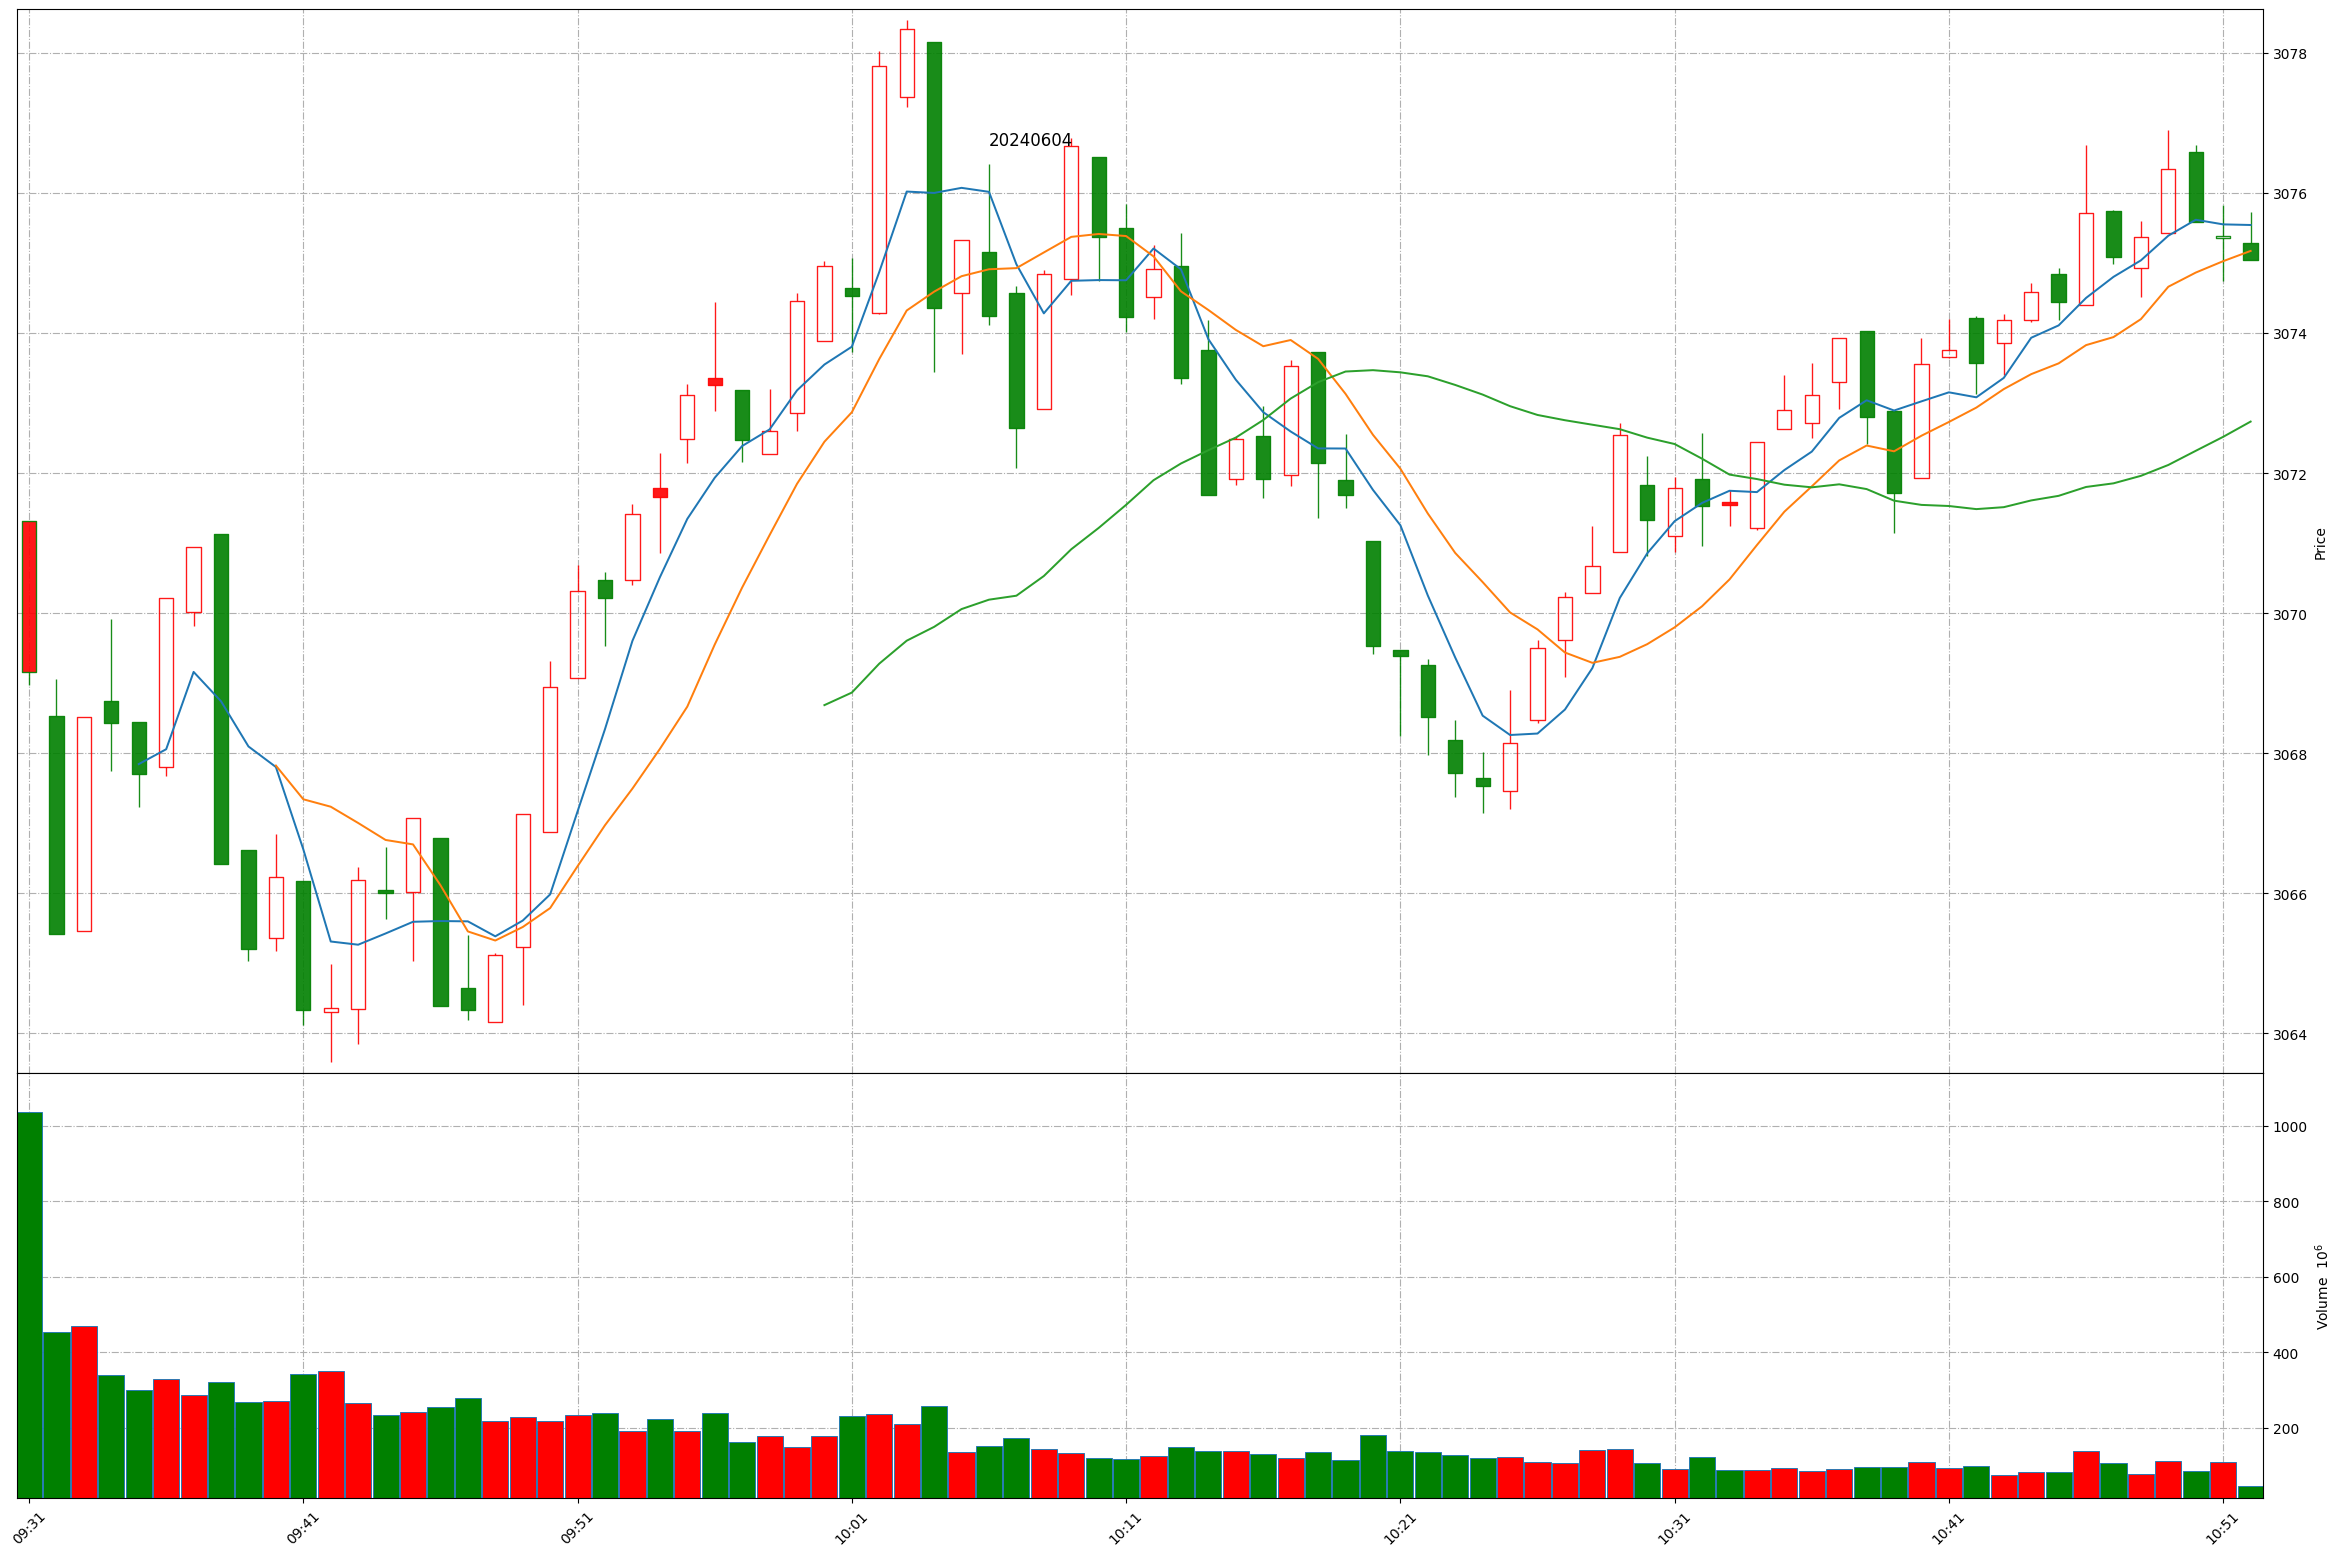
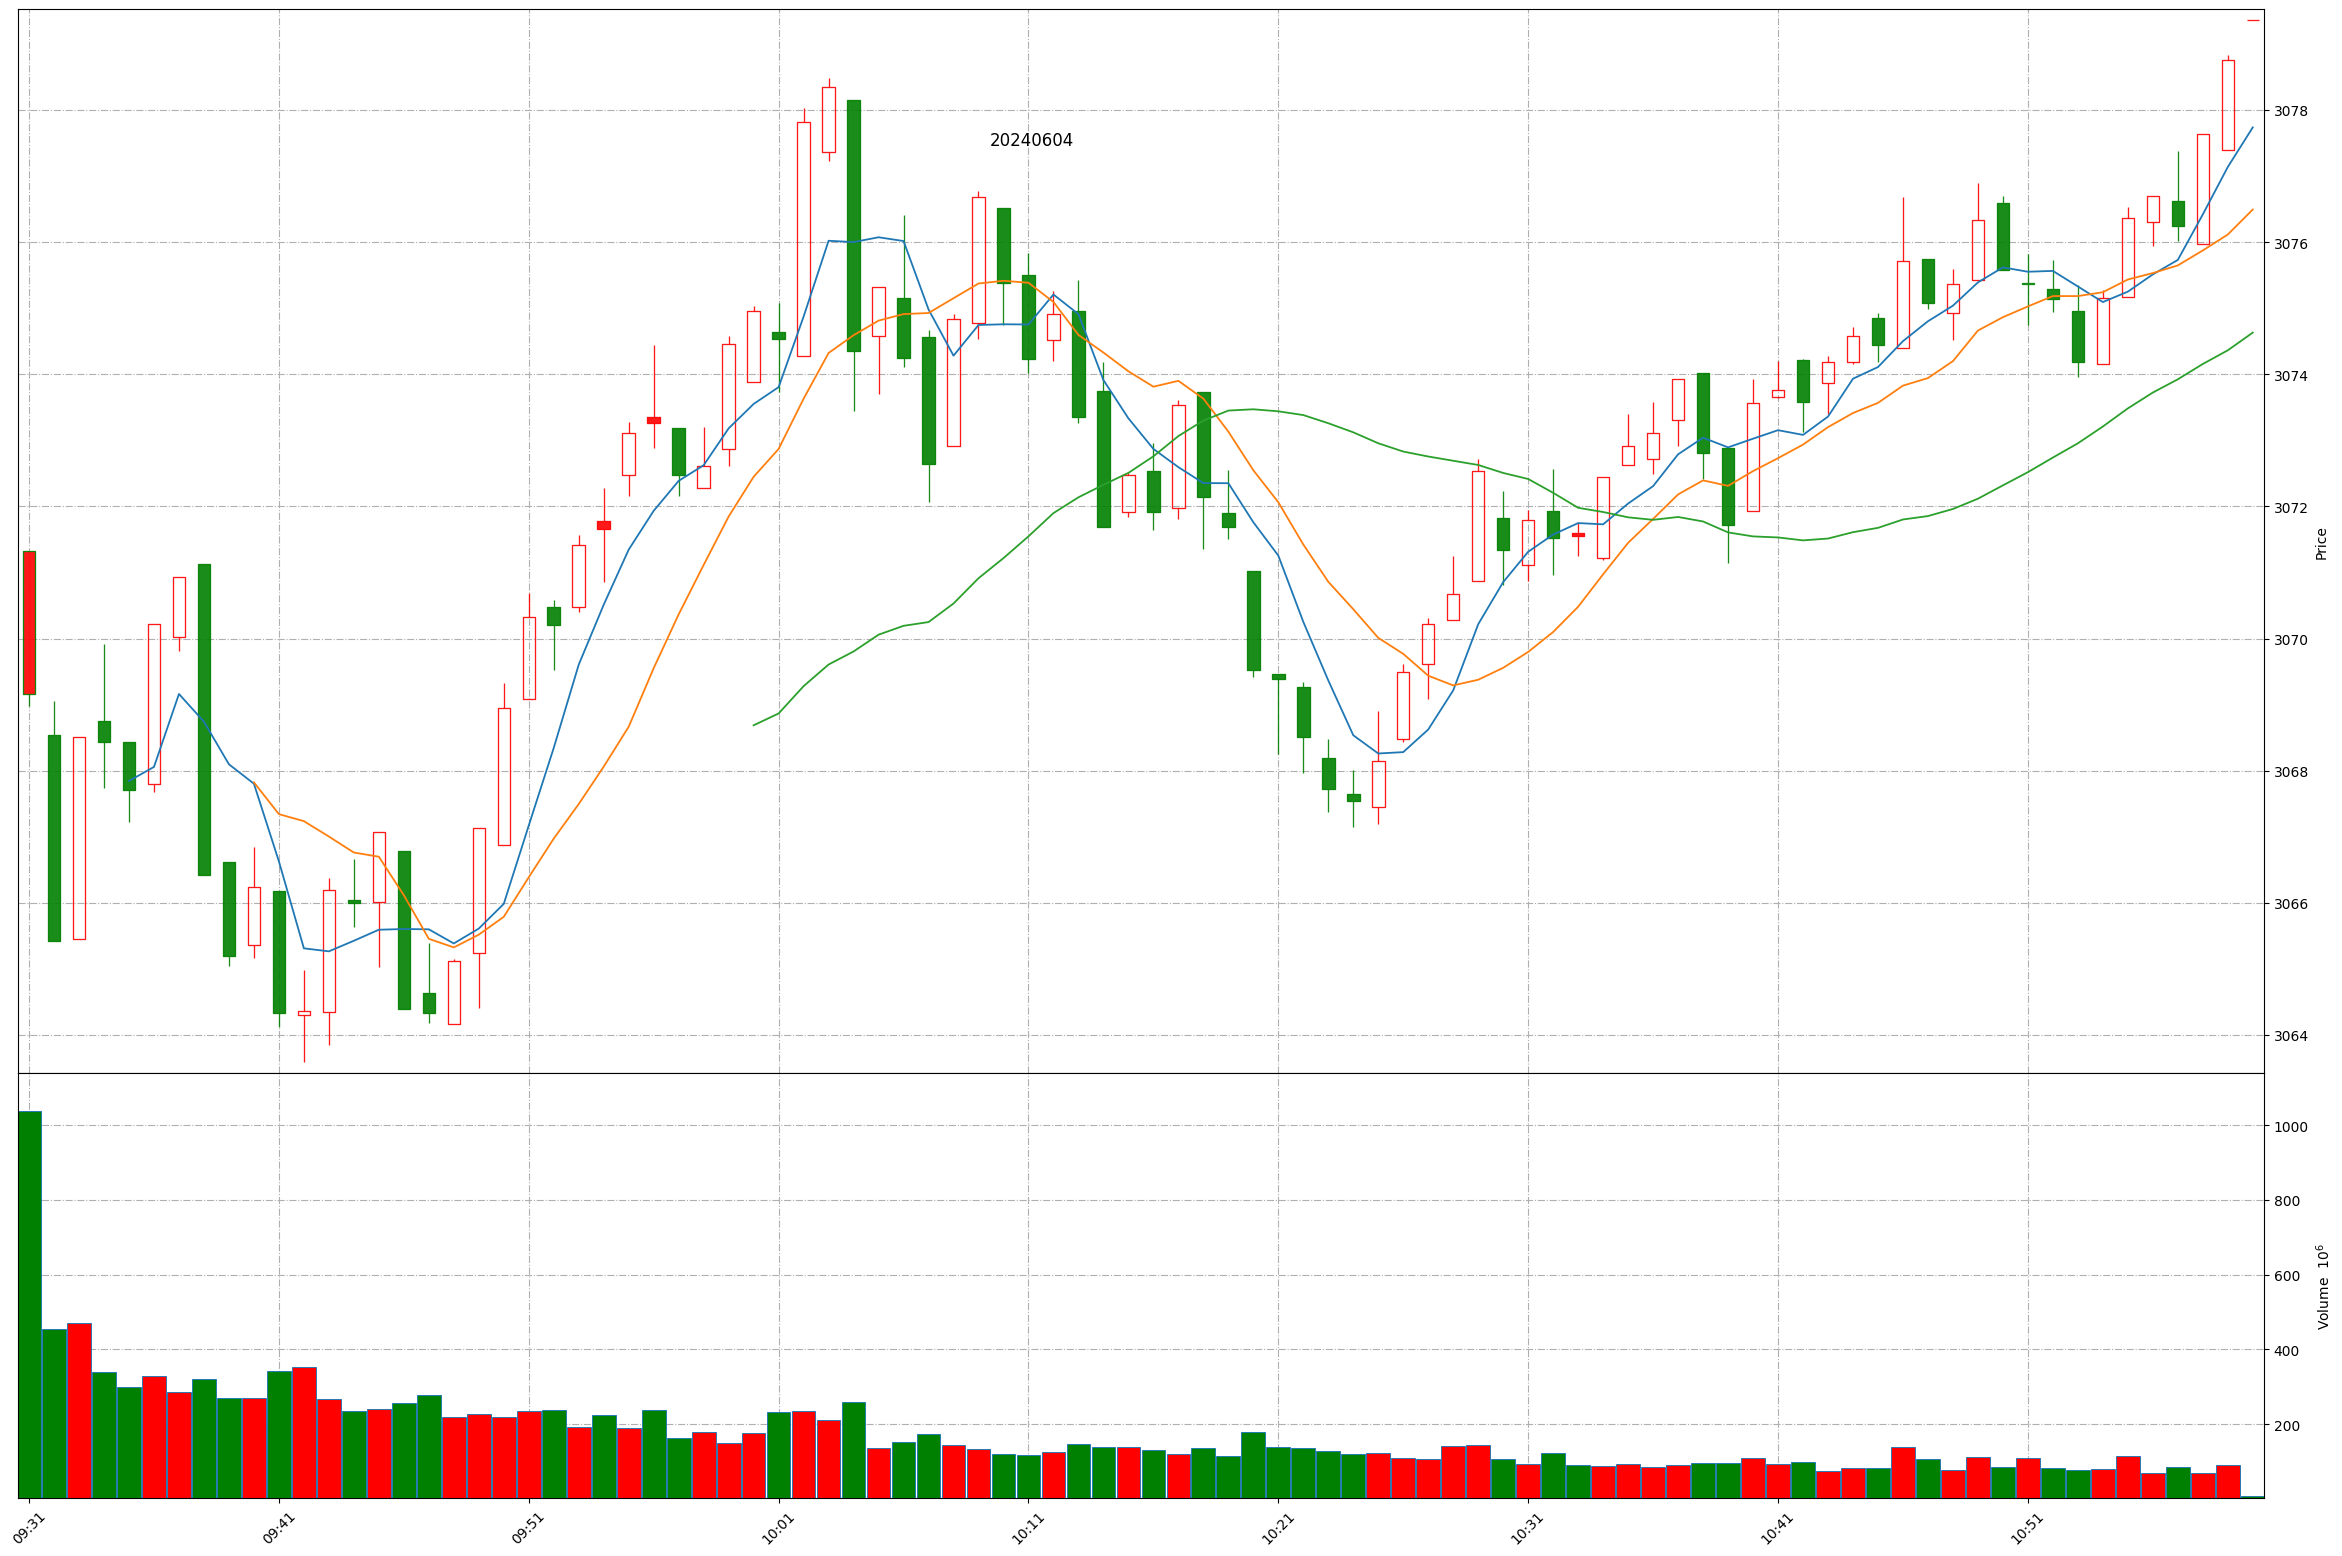
Github action update at 2024-06-04 10:59:25.

diff --git a/README.md b/README.md
@@ -1,11 +1,11 @@
 
 # Daily-A-share-market-quotes 每日 A 股指数（5min 更新）- 20240604
 
-### 上证指数 20240604 10:51
+### 上证指数 20240604 10:59
 ![](./fig/2024/6/20240604-sh000001.png)
 
-### 深证成指 20240604 10:51
+### 深证成指 20240604 10:59
 ![](./fig/2024/6/20240604-sz399001.png)
 
-### 北证50 20240604 10:51
+### 北证50 20240604 10:59
 ![](./fig/2024/6/20240604-bj899050.png)
